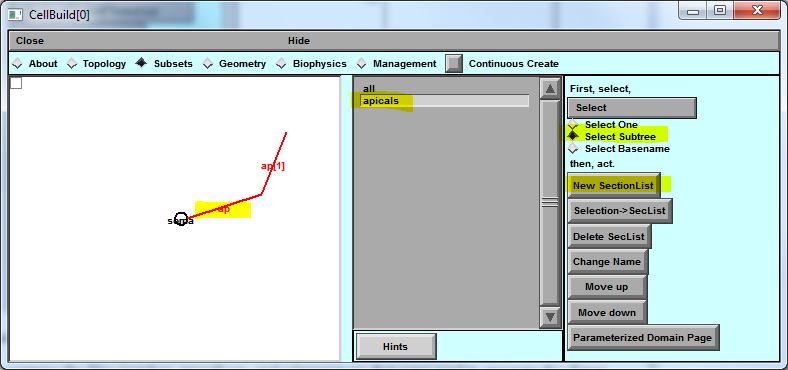
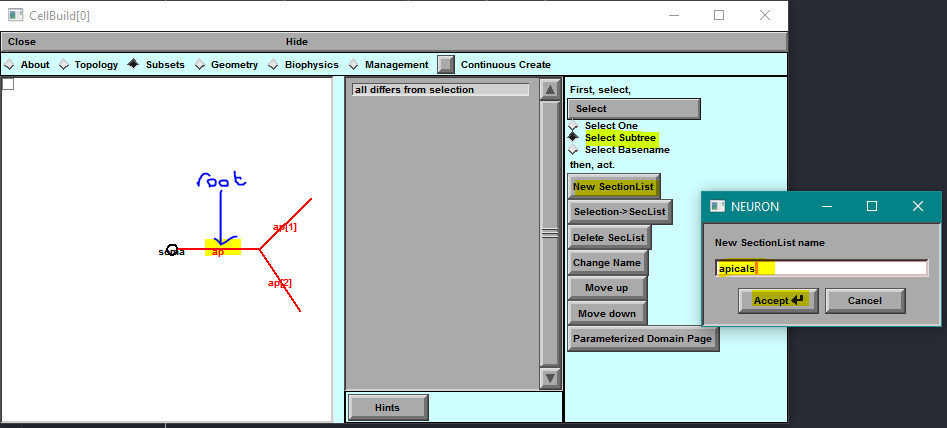
Lesson1 reviewed

diff --git a/lessons/simple.md b/lessons/simple.md
@@ -48,9 +48,9 @@ The `soma` and `dendrite` are each cylindrical sections of uniform dimensions.  
 
 1. Click on **Geometry**
 1. `all` should be selected by default - if not, select `all` in the side panel
-1. Ensure **Specify Strategy** is ticked. *(Having **select strategy** checked allows us to select which aspects of the geometry we want to alter)*
+1. Ensure **Specify Strategy** is ticked.
 1. Select length `L`, diameter `diam` from **Distinct values over subset**
-1. Select `d_lambda` from **Spatial grid** (This parameter ensures segments are dynamically distributed [2]).
+1. Select `d_lambda` from **Spatial grid** (This parameter ensures segments are dynamically distributed - see ref [1]).
 
 
 ![geo]
@@ -93,18 +93,18 @@ Now, we need to specify our lengths and diameters:
 
 <div class="alert alert-info">
 <h3>Ball and Stick</h3>
-<p>We now have created a neuron with a soma that is a cylinder 20&micro;m long, 20&micro;m wide, with one dendrite protruding out 1000&micro;m long, 5&micro;m wide. Certainly lives up to the name *Ball and Stick*. </p>
+<p>We have now created a neuron with a soma that is a cylinder 20&micro;m long, 20&micro;m wide, with one dendrite protruding out 1000&micro;m long, 5&micro;m wide. Certainly lives up to the name "Ball and Stick"! </p>
 </div>
 
 
 ### STEP A4: Specify biophysical characteristics
 
-The next part of defining the neuron is to specify the biophysical characteristics such as the electrical resistance within the cytoplasm (`Ra`), the capacitance of the plasma membrane (`cm`), membrane ion channels, buffers and pumps.
+The next part of defining the neuron is to specify the biophysical characteristics such as the electrical resistance within the cytoplasm (`Ra`), the capacitance of the plasma membrane (`cm`), membrane ion channels, buffers and pumps. NEURON specifies **ion channel density** by setting the *maximum combined conductance* (in Siemens) of those channels in that particular segment.
 
 1. Click on **Biophysics**
 1. Ensure **Specify Strategy** is selected.
 1. `Ra` and `cm` are uniform in this particular model, so we select the `all` subset and then click on the `Ra` and `cm` checkboxes.
-1. We will add a Hodgkin-Huxley conductance to `soma` and `dend` by selecting each then click on `hh`
+1. We will add a Hodgkin-Huxley (`hh`) conductance to `soma` and `dend` by selecting each then click on `hh`
 
 ![biophys]
 
@@ -115,16 +115,21 @@ Now we will add our values:
 
 ![biophys_all]
 
-NEURON specifies **ion channel density** by setting the *maximum combined conductance* in Siemens of those channels in that particular segment.
 
-The generic `hh` conductance is actually composed of three conductances:
-+ **voltage-gated Na^+** channel component
-+ **voltage-gated K+** channel component and
-+ the combined **passive leak** conductance.
+<a data-toggle="collapse" data-target="#tip2"><h4>Adding HH</h4></a>
+<div id="tip2" class="alert alert-success collapse">
+<p>The generic <code>hh</code> conductance is actually composed of three conductances:
+<ul><li><strong>voltage-gated Na+</strong> channel component</li>
+<li><strong>voltage-gated K+</strong> channel component and</li>
+<li>the combined <strong>passive leak</strong> conductance.</li>
+</ul>
+</p>
+<p><i>Note: If you have no <code>hh</code> you will need to add the passive leak conductance by selecting <code>pas</code> in specify strategy.</i></p>
+</div>
 
-*Note: If you have no `hh` you will need to add the passive leak conductance by selecting `pas` in specify strategy.*
+We will now insert HH into the soma and dendrite.
 
-For the dendrite, we need to enter a reduced HH which means altering the standard HH conductances to be 10% of their initial values.
+For the dendrite, we will enter a `reduced hh` which means altering the standard HH conductances to be 10% of their initial values.
 1. Select `hh` under `dend` and enter 10% of the Na+ (`gnabar_hh`) and  K+ (`gnakbar_hh`) conductance values
 1. No change to leak current of HH (`gl_hh`)
 1. For the equilibrium potential (`el_hh`), change this to `-64mV`
@@ -132,10 +137,16 @@ For the dendrite, we need to enter a reduced HH which means altering the standar
 ![biophys_reducedhh]
 
 
-<div class="alert alert-info">
- <h4>Save Me</h4> <p>You can save this to a file called <i>bs_cell.ses</i> using the <b>File->Save session</b> command from the Main Menu window.</p>
- <p><i>TIP: set your working directory via <b>File -> working dir</b> first	</i></p>
-</div>
+#### Save Me
+
+You can save this to a file called **bs_cell.ses**.
+
+![savesession]
+
+1. Set your working directory using the **File -> working dir** command from the Main Menu window
+1. Enter the file path in the window or double-click on folders as they appear.  The `..\` will return you to the parent directory.
+1. Select **Move To** which sets you up in the correct directory.
+1. Under the **File -> Save session** command, enter the name of the file in the top window (the bottom window is used as a filter only)
 
 
 ### STEP A5: Running a simple simulation
@@ -146,36 +157,30 @@ We are now ready to load the specifications of our model into the NEURON simulat
 1. We will need to create a stimulus which is known as a **Point Process** so from the Main Menu window, select **Tools** -> **Point Processes** -> **Managers** -> **Point Manager**
 1. In the **PointProcessManager** window, click on **SelectPointProcess** then select **IClamp**
 1. We will accept the default of `soma(0.5)` which means the stimulus has been placed in the middle of the soma
-1. We will insert a `0.6nA` current of `1ms` pulse width starting at t=`5ms` (a delay allows for initialization of any conductances with dependencies) so enter the values as shown.
+1. We will insert a `0.6nA` current of `1ms` pulse width starting at del=`5ms` (a delay allows for initialization of any conductances with dependencies) so enter the values as shown.
 
 ![pointprocess]
 
 
-1. Now from the Main Menu window, select **Tools**->**RunControl**. This is our stimulus parameter window and is where the simulation is launched. <a data-toggle="collapse" data-target="#tip2">More ...</a>
+1. Now from the Main Menu window, select **Tools**->**RunControl**. This is our stimulus parameter window and is where the simulation is launched. <a data-toggle="collapse" data-target="#tip3">More ...</a>
 
-<div id="tip2" class="alert alert-info collapse">
-<h3>Runcontrol window parameters </h3>
+<div id="tip3" class="alert alert-info collapse">
+<h3>Run control window parameters </h3>
 <ul>The following options can be set:
 <li><code>Init(mV)</code> : determines the voltage we start at (generally keep this at the resting membrane potential you will expect from your ion channels you have placed in – the further away it is from that, the longer your cell will take to reach an equilibrium at the start</li>
 <li> <code>Tstop</code> : controls the duration of our experiment, and</li>
-<li> <code>dt/points</code> and <code>plotted/ms</code> : controls our temporal resolution of the experiments.</li>
+<li> <code>dt</code> and <code>Points plotted/ms</code> : controls our temporal resolution of the experiments.</li>
 </ul>
 </div>
 
 
+![runcontrol] ![ap1]
+
 1. We will accept the default values, except for the time, so enter `20` for `Tstop(ms)`.
-
-![runcontrol]
-
-1. We will need to see an output of the simulation, so from the Main Menu, select **Graph** -> **Voltage axis**
+1. To see an output of the simulation, from the Main Menu, select **Graph** -> **Voltage axis**
 1. Now in the **RunControl** window, click **Init &amp; Run**
+>Have a look in the graph and you should see your neuron respond to the current.
 
-<div class="alert alert-success">
-<h3><span class="glyphicon glyphicon-check alert-success"></span>  Success!</h3>
-<p>Have a look in the graph and you should see your neuron respond to the current.</p>
-</div>
-
-![ap1]
 
 Now we will rerun the simulator to see the effect of increasing the current injection amplitude.
 
@@ -184,29 +189,15 @@ Now we will rerun the simulator to see the effect of increasing the current inje
 
 ![ap2]
 
-<div class="alert alert-info">
- <h4>Save Me</h4> <p>It would be a nuisance to have to repeat all the procedures above, so we can save the session to a file called <i>bs_iclamprig.ses</i> using the <b>File->Save session</b> command from the Main Menu window.</p>
- <p><i>TIP: set your working directory via <b>File -> recent dir</b> first.</i></p>
-</div>
+### STEP A6 Save Me
 
+You can save this to a file called **bs_iclamprig.ses**. (Saving to a new file separates our simulation from our cell.)
 
-### STEP A6: Reloading sessions
-
-The saved session can now be reloaded with all the parameters already set.
-
-1. Close down the NEURON application via **File -> Quit**
-1. Restart with `nrngui`
-1. You may need to return to your working directory with **File -> recent dir**
-1. Under **File -> Load session**, select *bs_iclamprig.ses* and Voila!
 
 
 ## Part B: Simple neuron model
 
-We can now add some more features to our "Ball and Stick" model to create a "Simple neuron".
-
-### STEP B1: Multiple dendrites
-
-We will now replace our single dendrite with a tree of branching apical dendrites with the following characteristics:
+We have covered the basics of creating a simple model and simulation.  We can now turn our "Ball and Stick" model into a "Simple neuron" by replacing our single dendrite with a tree of branching apical dendrites with the following characteristics:
 
 | Section | Ref | Length (&micro;m) | Diameter (&micro;m) | Biophysics |
 | ---- | ---- | ---- | ---- | ----|
@@ -214,24 +205,35 @@ We will now replace our single dendrite with a tree of branching apical dendrite
 | Apical dendrite branch | `ap[1]` | 300 | 1 | reduced hh |
 | Apical dendrite branch | `ap[2]` | 300 | 1 | reduced hh |
 
-1. Restart NEURON and load the *bs_cell.ses* session as above
-1. Ensure **Continuous Create** is not selected
+### STEP B1: Reloading sessions
+
+A saved session can now be reloaded with all the parameters and windows already set.
+
+1. Close down the NEURON application via **File -> Quit**
+1. Restart with `nrngui`
+1. You may need to return to your working directory with **File -> recent dir**
+1. Under **File -> Load session**, select the *bs_cell.ses* session created above
+
+### STEP B2: Modifying neurons
+
+We will now modify the topology of the "ball and stick" neuron.
+
+![simpleneuron]
+
 1. From the **CellBuilder**, select **Topology**
 1. Select **Delete Section** then click on `dend` to remove this
-1. Click on **Basename** and type in `ap` and **Accept**
-
-<!-- Lee - I don't get this error -?windows vs mac - perhaps save this session before proceeding
-1. Click through all the tabs in the **CellBuilder** to update NEURON
-1. Go back to **Topology** and click on **Basename** and type in `ap` and **Accept**
--->
 
 ![basename]
+
+1. Click on **Basename** and type in `ap` and **Accept**
 1. Click on **Make Section**
 1. Create two apical dendrite components by clicking anywhere on the canvas (twice!)
 1. Add a third dendrite as a branch by click and hold from the joint of the first two dendrites, then drag and release.  Errors can be rectified by selecting the commands as required.
 1. This generates `ap` (root), `ap[1]` and `ap[2]`
 
 ![canvas]
+
+### STEP B3: Creating subsets
 
 1. As they share common properties, we will group the dendrite components so click on **Subsets**
 1. Click on **Select Subtree**
@@ -240,12 +242,18 @@ We will now replace our single dendrite with a tree of branching apical dendrite
 1. In the popup window, enter `apicals` and **Accept**
 1. This new list should appear in the sets.
 
+![subsets]
+
+### STEP B4: Modifying parameters - Geometry
+
 We will need to specify the morphological characteristics of the new dendrites
 1. Click on **Geometry**
 1. Ensure **Specify Strategy** is unticked
 1. Enter the lengths and diameters of the `ap` sections as per the table
 
 ![strategy_done]
+
+### STEP B5: Modifying parameters - Biophysics
 
 For all the dendrites, we need to enter a reduced HH which means altering the standard HH conductances to be 10% of their initial values.
 1. Click on **Biophysics**
@@ -261,32 +269,23 @@ For all the dendrites, we need to enter a reduced HH which means altering the st
 
 ![biophys_reducedhh2]
 
-Because we are running in **Continuous Create** mode, these changes in **CellBuilder** can now be picked up straight away.  Rerun simulation from the **RunControl** window.
+### STEP B6 Save Me
 
-<div class="alert alert-info">
- <h4>Save Me</h4> <p>You can save this to a file called <i>simple_cell.ses</i> using the <b>File->Save session</b> command from the Main Menu window.</p>
- <p><i>TIP: set your working directory via <b>File -> recent dir</b> first	</i></p>
-</div>
-
+You can save this to a file called **simple_cell.ses**.
 
 --------
-<div class="alert alert-warning">
-<h4>Extra Task</h4>
-<p>To check you've got the hang of it, go back to the CellBuilder and add a basal dendrite and an axon with the following characteristics:</p>
-<table>		 
-   <thead> 		  
-   <tr><th>Section</th><th>Ref</th><th>Length (&micro;m)</th><th>Diameter (&micro;m)</th><th>Biophysics</th></tr>		 
-   </thead>		
-   <tbody>		
-   <tr><td>Basal dendrite</td><td><code class="highlighter-rouge">bas</code></td><td>200</td><td>3</td><td>pas</td></tr>		
-   <tr><td>Axon</td><td><code class="highlighter-rouge">axon</code></td><td>800</td><td>1</td><td>hh</td></tr>		
-   </tbody>		
- </table>
+### B. EXPERIMENTS
 
-<p>where <i>pas</i> is a passive current with a reversal potential (<code>e_pas</code>) of <code>-65mV</code>.
-Now rerun the simulation.</p>
-</div>
+Now it's time for you to complete the simple neuron.  To check you've got the hang of it, go back to the CellBuilder and add a basal dendrite and an axon with the following characteristics:
 
+| Section | Ref | Length (&micro;m) | Diameter (&micro;m) | Biophysics |
+| ---- | ---- | ---- | ---- | ----|
+| Basal dendrite | `bas` | 200 | 3 | pas (`e_pas` =-65mV) |
+| Axon | `axon` | 800 | 1 | `hh` |
+
+*Don't forget to save this to simple_cell.ses - we will be using it later.*
+
+![simpleneuron2]
 --------
 
 ## Resources
@@ -295,8 +294,8 @@ Now rerun the simulation.</p>
 
 [Units in NEURON](https://www.neuron.yale.edu/neuron/static/docs/units/unitchart.html)
 
-[1]: http://www.neuron.yale.edu/hg/neuron/nrn/file/d887332b34c3/src/nrnoc/hh.mod
-[2]: https://www.neuron.yale.edu/neuron/static/docs/d_lambda/d_lambda.html
+[2]: http://www.neuron.yale.edu/hg/neuron/nrn/file/d887332b34c3/src/nrnoc/hh.mod
+[1]: https://www.neuron.yale.edu/neuron/static/docs/d_lambda/d_lambda.html
 
 [cellbuilder]: {{ site.github.repository_url }}/raw/gh-pages/img/CellBuilder.PNG "Cell builder for morphology"
 
@@ -330,8 +329,16 @@ Now rerun the simulation.</p>
 
 [runcontrol]: {{ site.github.repository_url }}/raw/gh-pages/img/RunControl.PNG "Run control window"
 
+[savesession]: {{ site.github.repository_url }}/raw/gh-pages/img/SaveSession.PNG "Set working directory and save session"
+
 [ap1]: {{ site.github.repository_url }}/raw/gh-pages/img/AP_bs_1.PNG "AP Output of BS Model"
 
 [ap2]: {{ site.github.repository_url }}/raw/gh-pages/img/AP_bs_2.PNG "AP Output of BS Model"
 
 [simpleoutput]: {{ site.github.repository_url }}/raw/gh-pages/img/SimpleOutput.PNG "Output of Simple Model"
+
+[simpleneuron]: {{ site.github.repository_url }}/raw/gh-pages/img/SimpleNeuron.PNG "Modifying cell topology"
+
+[simpleneuron2]: {{ site.github.repository_url }}/raw/gh-pages/img/SimpleNeuron.PNG "Simple neuron"
+
+[subsets]: {{ site.github.repository_url }}/raw/gh-pages/img/Subsets.PNG "Creating subsets"
